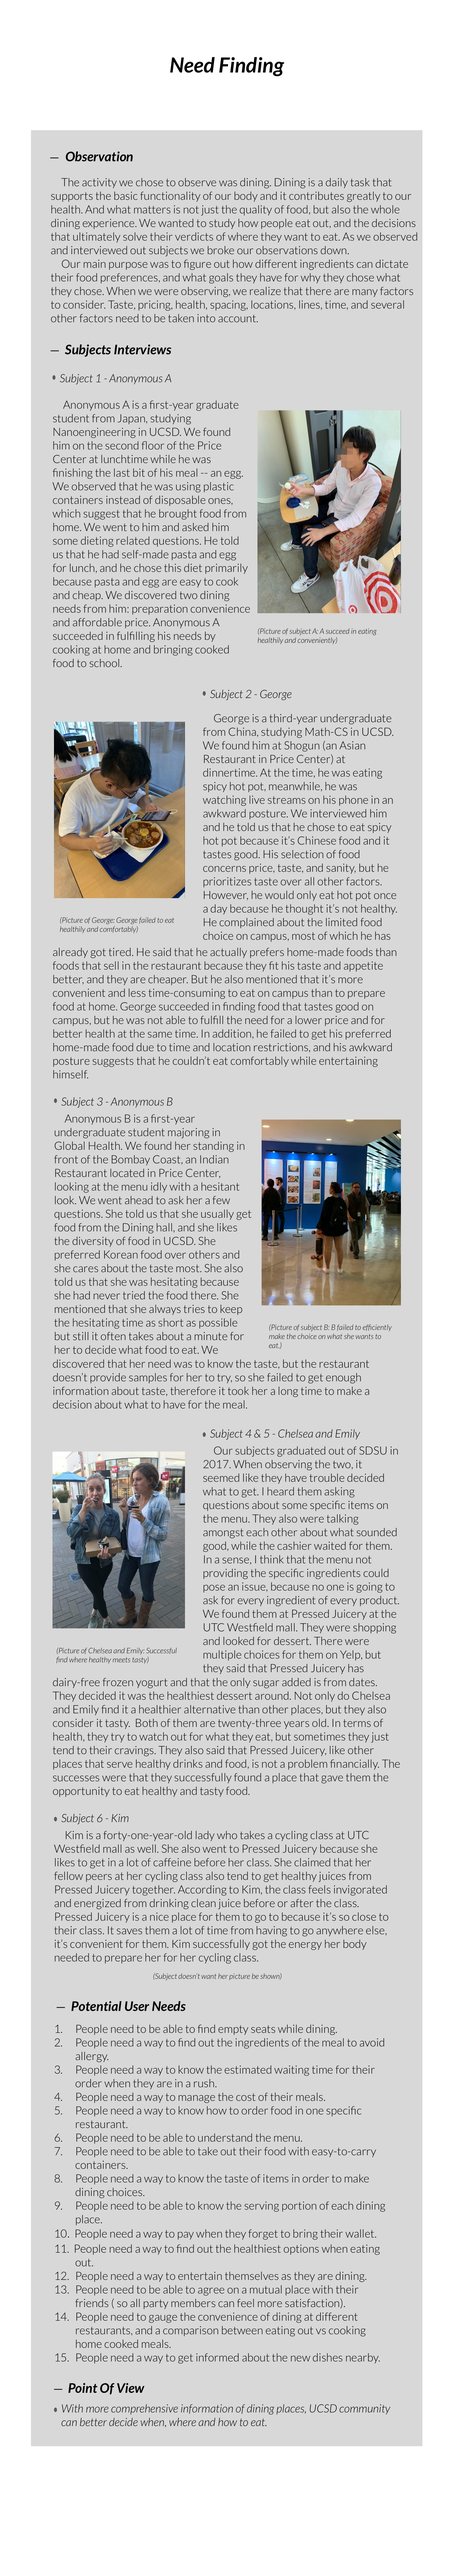
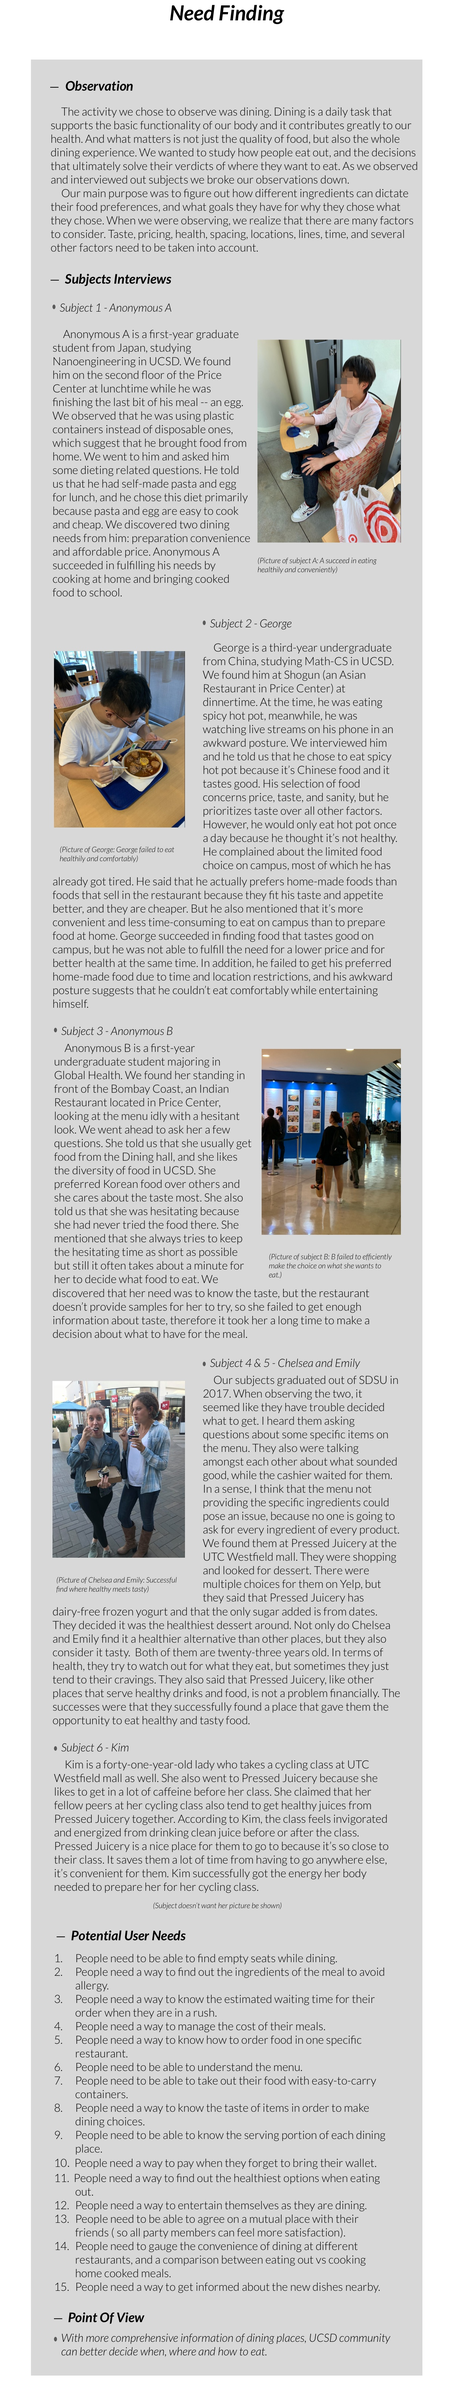
fix alignment issues

Changed region(s): [[0.0617, 0.0, 0.9558, 0.9997]]

diff --git a/index.html b/index.html
@@ -121,7 +121,7 @@
         <h1 class="mb-0" style="font-family: 'Lobster', cursive; padding-top: 25%; color: white;">Wei Zeng</h1>
         <hr style="height:3px;border:none;color:#333;background-color:white; width:42%; margin-top:25px; text-align: center;"/>
         <h2 class="font-weight-light mb-0" style="text-align: center; font-family: 'Patua One', cursive; color: white">UX/UE Designing - Software Engineering</h2>
-        <h3 class="font-weight-light mb-0" style="padding-top: 20%; text-align: center; font-family: 'Patua One', cursive; color: white">-Site Currently Under Construction-</h3>
+        <h3 class="font-weight-light mb-0" style="font-size: 1.3rem; text-align: center; font-family: 'Patua One', cursive; color: white">-Site Currently Under Construction-</h3>
       </div>
     </header>
 

diff --git a/waitless.html b/waitless.html
@@ -117,7 +117,7 @@
     </div>
 
     <!-- A1 -->
-    <img src="img/needfinding.jpg"/>
+    <img style="padding-top: 8%;" src="img/needfinding.jpg"/>
     <!-- A2 -->
     <img src="img/A2.jpg"/>
   </div>
